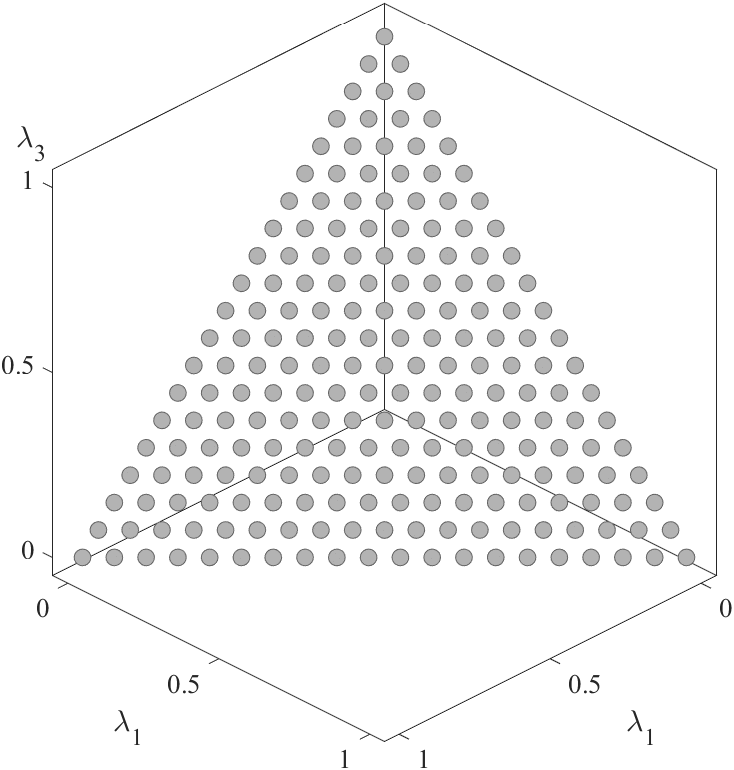
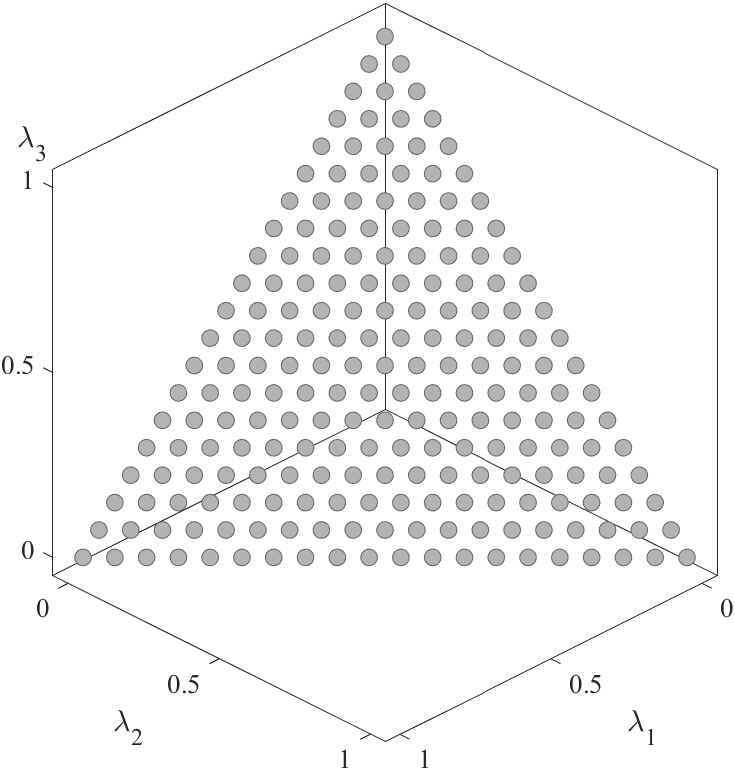
Fix typo

diff --git a/SaveImage/Solution/obj3d.m b/SaveImage/Solution/obj3d.m
@@ -9,7 +9,7 @@ function obj3d(data,name,label)
     plot3(data(:,1),data(:,2),data(:,3),'o','MarkerSize',8, ...
         'Markerfacecolor',[.7 .7 .7],'Markeredgecolor',[.4 .4 .4]);
     xlim([-0.05 1.05]); xlabel(label(1),'position',[0.4,1.2,-0.15]);
-    ylim([-0.05 1.05]); ylabel(label(1),'position',[1.2,0.4,-0.15]);
+    ylim([-0.05 1.05]); ylabel(label(2),'position',[1.2,0.4,-0.15]);
     zlim([-0.05 1.05]); zlabel(label(3),'position',[0.4,-0.77,0.5],'Rotation',0);
     zticks([0 0.5 1]); axis square;
     exportgraphics(gcf,[name,'.pdf'],'BackgroundColor','none','ContentType','vector');
